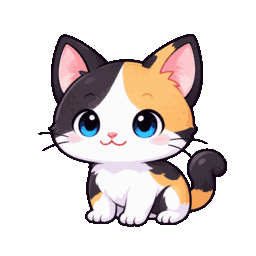
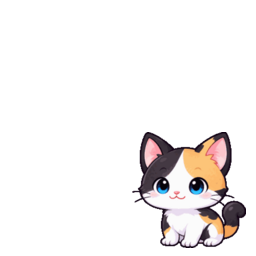
fix: normalize pet scale and top-align emotion effects [skip ci]

diff --git a/avatar-renderer.js b/avatar-renderer.js
@@ -84,7 +84,7 @@ window.StudyVillageAvatar=(()=>{
     'pet-maltese-production':{src:`${RPG}production/pets/maltese.png?v=20260902large2`,alt:'하얀 말티즈'},'pet-toy-poodle-production':{src:`${RPG}production/pets/toy-poodle.png?v=20260902large2`,alt:'살구 토이푸들'},'pet-corgi-production':{src:`${RPG}production/pets/corgi.png?v=20260902large2`,alt:'통통 웰시코기'},'pet-cheese-cat-production':{src:`${RPG}production/pets/cheese-cat.png?v=20260902large2`,alt:'치즈 줄무늬 고양이'},'pet-lop-rabbit-production':{src:`${RPG}production/pets/lop-rabbit.png?v=20260902large2`,alt:'크림 롭이어 토끼'},'pet-baby-dragon-production':{src:`${RPG}production/pets/baby-dragon.png?v=20260902large2`,alt:'사파이어 꼬마 용'},
     'effect-starlight-v2':{svg:frame('<g fill="#ffd95a" stroke="#b87a24" stroke-width="1"><path d="M8 34l2 5 6 1-5 4 2 6-5-3-5 3 2-6-5-4 6-1z"/><path d="M88 58l2 5 6 1-5 4 2 6-5-3-5 3 2-6-5-4 6-1z"/><path d="M11 100l1.5 4 4.5.5-3.5 3 1 4.5-3.5-2.5L7.5 112l1-4.5-3.5-3 4.5-.5z"/><circle cx="88" cy="105" r="2.5"/><circle cx="9" cy="72" r="2"/></g>'),alt:'포근한 별빛 효과'},
     'effect-heart-aura':{src:`${RPG}production/effects/heart-aura.png?v=20260908effect1`,alt:'두근두근 하트 효과'},
-    'effect-snow-aura':{src:`${RPG}production/effects/snow-aura.png?v=20260908effect2`,alt:'반짝 눈송이 효과'},
+    'effect-snow-aura':{src:`${RPG}production/effects/snow-aura.png?v=20260909sizefix1`,alt:'반짝 눈송이 효과'},
     'effect-music-aura':{src:`${RPG}production/effects/music-aura.png?v=20260908effect2`,alt:'신나는 음표 효과'},
     'effect-rainbow-aura':{src:`${RPG}production/effects/rainbow-aura.png?v=20260908effect2`,alt:'희망 무지개 효과'},
     'effect-daydream-aura':{src:`${RPG}production/effects/daydream-aura.png?v=20260908effect3`,alt:'멍한 생각 효과'},
@@ -93,9 +93,9 @@ window.StudyVillageAvatar=(()=>{
     'effect-surprise-aura':{src:`${RPG}production/effects/surprise-aura.png?v=20260908effect4`,alt:'깜짝 느낌 효과'},
     'effect-sprout-aura':{src:`${RPG}production/effects/sprout-aura.png?v=20260908effect4`,alt:'새싹 기운 효과'},
     'effect-ghost-aura':{src:`${RPG}production/effects/ghost-aura.png?v=20260908effect4`,alt:'유령 친구 효과'},
-    'effect-crown-aura':{src:`${RPG}production/effects/crown-aura.png?v=20260908effect5`,alt:'빛나는 왕관 효과'},
-    'effect-sweat-aura':{src:`${RPG}production/effects/sweat-aura.png?v=20260908effect5`,alt:'당황 땀방울 효과'},
-    'effect-anger-aura':{src:`${RPG}production/effects/anger-aura.png?v=20260908effect5`,alt:'화남 표시 효과'},
+    'effect-crown-aura':{src:`${RPG}production/effects/crown-aura.png?v=20260909sizefix1`,alt:'빛나는 왕관 효과'},
+    'effect-sweat-aura':{src:`${RPG}production/effects/sweat-aura.png?v=20260909sizefix1`,alt:'당황 땀방울 효과'},
+    'effect-anger-aura':{src:`${RPG}production/effects/anger-aura.png?v=20260909sizefix1`,alt:'화남 표시 효과'},
     'pet-cream-pup-v2':{src:`${RPG}v2/pets/cream-pup-v1.png?v=20260902art4`,alt:'크림 강아지'},
     'pet-ice-fox':{src:`${RPG}production/pets/ice-fox.png?v=20260908pet1`,alt:'얼음여우 친구'},
     'pet-leaf-frog':{src:`${RPG}production/pets/leaf-frog.png?v=20260908pet1`,alt:'초록개구리 친구'},
@@ -103,15 +103,15 @@ window.StudyVillageAvatar=(()=>{
     'pet-white-tiger':{src:`${RPG}production/pets/white-tiger.png?v=20260908pet1`,alt:'백호 친구'},
     'pet-red-panda':{src:`${RPG}production/pets/red-panda.png?v=20260908pet1`,alt:'레서판다 친구'},
     'pet-border-collie':{src:`${RPG}production/pets/border-collie.png?v=20260908pet2`,alt:'보더콜리 친구'},
-    'pet-shih-tzu':{src:`${RPG}production/pets/shih-tzu.png?v=20260908pet3`,alt:'시추 친구'},
-    'pet-black-cat':{src:`${RPG}production/pets/black-cat.png?v=20260908pet3`,alt:'검은 고양이 친구'},
-    'pet-baby-penguin':{src:`${RPG}production/pets/baby-penguin.png?v=20260908pet3`,alt:'아기 펭귄 친구'},
-    'pet-hamster':{src:`${RPG}production/pets/hamster.png?v=20260908pet4`,alt:'햄스터 친구'},
-    'pet-baby-owl':{src:`${RPG}production/pets/baby-owl.png?v=20260908pet4`,alt:'아기 부엉이 친구'},
-    'pet-dolphin':{src:`${RPG}production/pets/dolphin.png?v=20260908pet4`,alt:'돌고래 친구'},
-    'pet-dachshund':{src:`${RPG}production/pets/dachshund.png?v=20260908pet5`,alt:'닥스훈트 친구'},
-    'pet-calico-cat':{src:`${RPG}production/pets/calico-cat.png?v=20260908pet5`,alt:'삼색 고양이 친구'},
-    'pet-phoenix':{src:`${RPG}production/pets/phoenix.png?v=20260908pet5`,alt:'피닉스 친구'}
+    'pet-shih-tzu':{src:`${RPG}production/pets/shih-tzu.png?v=20260909sizefix1`,alt:'시추 친구'},
+    'pet-black-cat':{src:`${RPG}production/pets/black-cat.png?v=20260909sizefix1`,alt:'검은 고양이 친구'},
+    'pet-baby-penguin':{src:`${RPG}production/pets/baby-penguin.png?v=20260909sizefix1`,alt:'아기 펭귄 친구'},
+    'pet-hamster':{src:`${RPG}production/pets/hamster.png?v=20260909sizefix1`,alt:'햄스터 친구'},
+    'pet-baby-owl':{src:`${RPG}production/pets/baby-owl.png?v=20260909sizefix1`,alt:'아기 부엉이 친구'},
+    'pet-dolphin':{src:`${RPG}production/pets/dolphin.png?v=20260909sizefix1`,alt:'돌고래 친구'},
+    'pet-dachshund':{src:`${RPG}production/pets/dachshund.png?v=20260909sizefix1`,alt:'닥스훈트 친구'},
+    'pet-calico-cat':{src:`${RPG}production/pets/calico-cat.png?v=20260909sizefix1`,alt:'삼색 고양이 친구'},
+    'pet-phoenix':{src:`${RPG}production/pets/phoenix.png?v=20260909sizefix1`,alt:'피닉스 친구'}
   };
   function paint(element,spec){if(!element)return;element.replaceChildren();element.classList.toggle('image-asset',!!spec?.src);element.classList.toggle('svg-asset',!!spec?.svg);if(spec?.svg)element.innerHTML=spec.svg;else if(spec?.src){const img=document.createElement('img');img.src=spec.src;img.alt=spec.alt||'';img.draggable=false;element.appendChild(img)}else element.textContent=spec?.emoji||''}
   function base(id='student-default'){return BASES[id]||BASES['student-default']}

diff --git a/index.html b/index.html
@@ -29,6 +29,6 @@
         <footer class="mobile-controls"><button id="talk-button" class="talk-button">✨ 상호작용</button></footer>
       </section>
     </main>
-    <script src="auth.js?v=20260831r1"></script><script src="error-reporter.js"></script><script src="student-single-session.js"></script><script src="presence.js"></script><script src="live-events.js"></script><script src="data-service.js?v=20260823a"></script><script src="activity-checkpoint.js"></script><script src="activity-gate.js?v=20260828b"></script><script src="sound-effects.js?v=20260827v2"></script><script src="game.js?v=20260828v3"></script><script src="student-session.js?v=20260830r2"></script><script src="avatar-renderer.js?v=20260909character10"></script><script src="assets/avatar-base-variants-v1.js?v=20260901heads1"></script><script src="assets/avatar-special-outfit-overhaul-v2.js?v=20260830a"></script><script src="assets/avatar-visual-overhaul-v1.js?v=20260830a"></script><script src="assets/avatar-simple-sets-v1.js?v=20260830a"></script><script src="avatar-motion.js"></script><script src="avatar-growth-effects.js?v=20260822c"></script><script src="world-camera.js"></script><script src="village-layout.js?v=20260902art2"></script><script src="random-npcs.js"></script><script src="random-exploration-events.js"></script><script src="building-interiors.js?v=20260830a"></script><script src="math-practice.js?v=20260902r1"></script><script src="question-data.js?v=20260902r1"></script><script src="curriculum-question-bank.js?v=20260827v1"></script><script src="assets/curriculum-content-expansion.js?v=20260828v1"></script><script src="question-response.js"></script><script src="assets/student-question-overrides.js?v=20260827v2"></script><script src="library-game.js?v=20260830save1"></script><script src="activity-taxonomy.js"></script><script src="daily-missions.js?v=20260901r2"></script><script src="exploration-collection.js?v=20260901r2"></script><script src="activity-records.js"></script><script src="student-result-profile-sync.js"></script><script src="customize.js?v=20260909character10"></script><script src="assets/avatar-fullbody-fix.js?v=20260826rpg3"></script><script src="assets/avatar-basic-pack-v3.js?v=20260826v3"></script><script src="assets/avatar-secondary-sync-v2.js?v=20260827v4"></script><script src="assets/student-shop-ownership-compat.js?v=20260823a"></script><script src="student-shop.js?v=20260909character10"></script><script src="onboarding.js?v=20260820c"></script><script src="connection-status.js"></script><script src="session-restore.js"></script><script src="assets/expedition-entry-guard.js?v=20260823a"></script><script src="assets/student-exploration-subject-pools.js?v=20260829v7"></script><script src="assets/student-exploration-v2.js?v=20260901r6"></script><script src="assets/student-overlay-manager.js?v=20260828c"></script><script src="assets/student-stability-fixes.js?v=20260908rankfix1"></script><script src="assets/ui-feedback-polish.js?v=20260829c"></script>
+    <script src="auth.js?v=20260831r1"></script><script src="error-reporter.js"></script><script src="student-single-session.js"></script><script src="presence.js"></script><script src="live-events.js"></script><script src="data-service.js?v=20260823a"></script><script src="activity-checkpoint.js"></script><script src="activity-gate.js?v=20260828b"></script><script src="sound-effects.js?v=20260827v2"></script><script src="game.js?v=20260828v3"></script><script src="student-session.js?v=20260830r2"></script><script src="avatar-renderer.js?v=20260909sizefix1"></script><script src="assets/avatar-base-variants-v1.js?v=20260901heads1"></script><script src="assets/avatar-special-outfit-overhaul-v2.js?v=20260830a"></script><script src="assets/avatar-visual-overhaul-v1.js?v=20260830a"></script><script src="assets/avatar-simple-sets-v1.js?v=20260830a"></script><script src="avatar-motion.js"></script><script src="avatar-growth-effects.js?v=20260822c"></script><script src="world-camera.js"></script><script src="village-layout.js?v=20260902art2"></script><script src="random-npcs.js"></script><script src="random-exploration-events.js"></script><script src="building-interiors.js?v=20260830a"></script><script src="math-practice.js?v=20260902r1"></script><script src="question-data.js?v=20260902r1"></script><script src="curriculum-question-bank.js?v=20260827v1"></script><script src="assets/curriculum-content-expansion.js?v=20260828v1"></script><script src="question-response.js"></script><script src="assets/student-question-overrides.js?v=20260827v2"></script><script src="library-game.js?v=20260830save1"></script><script src="activity-taxonomy.js"></script><script src="daily-missions.js?v=20260901r2"></script><script src="exploration-collection.js?v=20260901r2"></script><script src="activity-records.js"></script><script src="student-result-profile-sync.js"></script><script src="customize.js?v=20260909sizefix1"></script><script src="assets/avatar-fullbody-fix.js?v=20260826rpg3"></script><script src="assets/avatar-basic-pack-v3.js?v=20260826v3"></script><script src="assets/avatar-secondary-sync-v2.js?v=20260827v4"></script><script src="assets/student-shop-ownership-compat.js?v=20260823a"></script><script src="student-shop.js?v=20260909sizefix1"></script><script src="onboarding.js?v=20260820c"></script><script src="connection-status.js"></script><script src="session-restore.js"></script><script src="assets/expedition-entry-guard.js?v=20260823a"></script><script src="assets/student-exploration-subject-pools.js?v=20260829v7"></script><script src="assets/student-exploration-v2.js?v=20260901r6"></script><script src="assets/student-overlay-manager.js?v=20260828c"></script><script src="assets/student-stability-fixes.js?v=20260908rankfix1"></script><script src="assets/ui-feedback-polish.js?v=20260829c"></script>
   </body>
 </html>

diff --git a/avatar-basic-pack-contract-selftest.js b/avatar-basic-pack-contract-selftest.js
@@ -16,7 +16,7 @@ assert.ok(ranking.includes("['outfit','effect','bottom','shoes','hat','glasses',
 assert.ok(server.includes('equipment:rankingEquipment(row)'),'ranking API must return allowlisted equipment');
 assert.ok(admin.includes("for(const slot of ['hair','effect','outfit','pet'])"),'teacher student table must paint canonical avatar layers');
 assert.ok(adminShop.includes('admin-shop-product-preview'),'teacher shop must render graphical product previews');
-assert.ok(adminHtml.includes('avatar-renderer.js?v=20260909character10'),'teacher mode must load the current complete-character renderer');
+assert.ok(adminHtml.includes('avatar-renderer.js?v=20260909sizefix1'),'teacher mode must load the current complete-character renderer');
 const reset=itemShop.slice(itemShop.indexOf('function resetRetiredLayerPurchases'),itemShop.indexOf('function readPrices'));
 for(const token of ["COMPLETE_CHARACTER_RESET_KEY='avatar:complete-character-reset:v1'","equipment_json='{}'","owned_items_json='[]'"])assert.ok(itemShop.includes(token),`one-time complete-character reset missing: ${token}`);
 assert.ok(!reset.includes('stars=')&&!reset.includes('DELETE FROM star_ledger'),'complete-character cleanup must preserve stars and their ledger');

diff --git a/admin.html b/admin.html
@@ -204,7 +204,7 @@
     <script src="admin-network-guard.js?v=20260825r8"></script>
     <script src="admin-restore-guard.js?v=v1-restore2"></script>
     <script src="admin-restore-preflight.js"></script>
-    <script src="avatar-renderer.js?v=20260909character10"></script>
+    <script src="avatar-renderer.js?v=20260909sizefix1"></script>
     <script src="admin.js?v=20260825r8"></script>
     <script src="admin-student-edit.js?v=20260825r8"></script>
     <script src="admin-checkpoints.js"></script>
